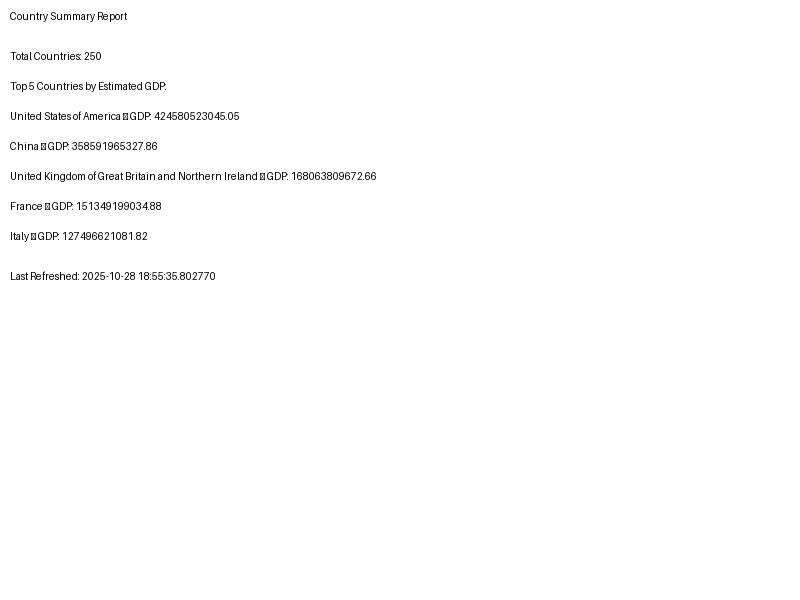
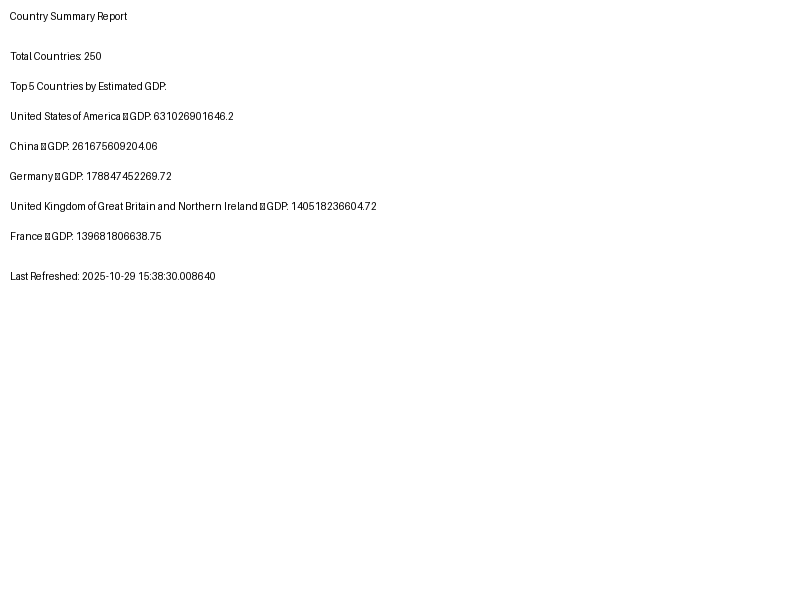
final fixes

diff --git a/views.py b/views.py
@@ -1,4 +1,4 @@
-from services import country_data, exchange_rate_data, calculate_estimated_gdp, generate_country_summary_image
+from services import country_data, exchange_rate_data, generate_country_summary_image
 from models import Countries, SessionDep
 from fastapi import HTTPException, status
 from main import app
@@ -6,6 +6,7 @@ from sqlmodel import select, func
 from datetime import datetime, timezone
 from fastapi.responses import FileResponse
 import os
+import random
 
 BASE_DIR = os.path.dirname(os.path.abspath(__file__))
 IMAGE_PATH = os.path.join(BASE_DIR, "cache", "summary.png")
@@ -14,10 +15,8 @@ IMAGE_PATH = os.path.join(BASE_DIR, "cache", "summary.png")
 @app.post("/countries/refresh")
 def fetch_country_data(session: SessionDep):
     try:
-
         countries = country_data("https://restcountries.com/v2/all?fields=name,capital,region,population,flag,currencies")
         exchange_rates = exchange_rate_data("https://open.er-api.com/v6/latest/USD")
-
     except Exception as e:
         raise HTTPException(
             status_code=status.HTTP_503_SERVICE_UNAVAILABLE,
@@ -34,49 +33,51 @@ def fetch_country_data(session: SessionDep):
         )
 
     try:
-
-        country_obj = []
+        new_countries = []
         updated_count = 0
 
         for country in countries:
             name = country.get("name")
-            population = country.get("population")
+            if not name:
+                continue
+                
+            population = country.get("population", 0)
             capital = country.get("capital")
             region = country.get("region")
             flag_url = country.get("flag")
-
-            # Extract currency data
             currencies = country.get("currencies") or []
-            currency_code = currencies[0].get("code") if currencies else None
-
             
-            missing_fields = {}
-            if not name:
-                missing_fields["name"] = "is required"
-            # if not population:
-            #     missing_fields["population"] = "is required"
-            # if not currency_code:
-            #     missing_fields["currency_code"] = "is required"
-
-            # if missing_fields:
-            #     raise HTTPException(
-            #         status_code=status.HTTP_400_BAD_REQUEST,
-            #         detail={"error": "Validation failed", "details": missing_fields}
-            #     )
-
-            if not currency_code:
+            
+            if not currencies:
+                
+                currency_code = None
                 exchange_rate = None
-                estimated_gdp = 0
+                estimated_gdp = 0.0 
             else:
-                exchange_rate = exchange_rates.get(currency_code)
-                estimated_gdp = (
-                    calculate_estimated_gdp({"population": population, "exchange_rate": exchange_rate})
-                    if exchange_rate else 0
-                )
+                currency_code = currencies[0].get("code") if currencies[0] else None
+                
+                if currency_code:
+                    exchange_rate = exchange_rates.get(currency_code)
+                    
+                    # Calculate GDP
+                    if exchange_rate and population:
+                        gdp_per_capita = random.uniform(1000, 2000)
+                        estimated_gdp = round((population * gdp_per_capita) / exchange_rate, 2)
+                    else:
+                    
+                        estimated_gdp = None
+                else:
+                
+                    exchange_rate = None
+                    estimated_gdp = 0.0
 
-            existing = session.exec(select(Countries).where(Countries.name.ilike(name))).first()
+            # Check if country exists
+            existing = session.exec(
+                select(Countries).where(Countries.name.ilike(name))
+            ).first()
 
             if existing:
+                # Update existing country
                 existing.capital = capital
                 existing.region = region
                 existing.population = population
@@ -85,8 +86,10 @@ def fetch_country_data(session: SessionDep):
                 existing.estimated_gdp = estimated_gdp
                 existing.flag_url = flag_url
                 existing.last_refreshed_at = datetime.now(timezone.utc)
+                session.add(existing)
                 updated_count += 1
             else:
+                # Create new country
                 new_country = Countries(
                     name=name,
                     capital=capital,
@@ -96,19 +99,23 @@ def fetch_country_data(session: SessionDep):
                     exchange_rate=exchange_rate,
                     estimated_gdp=estimated_gdp,
                     flag_url=flag_url,
+                    last_refreshed_at=datetime.now(timezone.utc)
                 )
-                country_obj.append(new_country)
+                new_countries.append(new_country)
 
-        if country_obj:
-            session.add_all(country_obj)
+        if new_countries:
+            session.add_all(new_countries)
 
         session.commit()
 
-        generate_country_summary_image(session)
+        # summary image
+        try:
+            generate_country_summary_image(session)
+        except Exception as img_error:
+            print(f"Image generation failed: {img_error}")
 
-        total_processed = len(country_obj) + updated_count
-
-        return {"message": f"Saved/updated {total_processed} countries successfully and summary image generated"}
+        total_processed = len(new_countries) + updated_count
+        return {"message": f"Saved/updated {total_processed} countries successfully"}
 
     except HTTPException as e:
         session.rollback()
@@ -122,14 +129,19 @@ def fetch_country_data(session: SessionDep):
 
 
 @app.get("/countries")
-def get_countries(session: SessionDep, skip: int = 0, limit: int = 10,
-                  name: str | None = None,
-                  region: str | None = None,
-                  currency: str | None = None,
-                  sort: str | None = None):
+def get_countries(
+    session: SessionDep, 
+    skip: int = 0, 
+    limit: int = 10,
+    name: str | None = None,
+    region: str | None = None,
+    currency: str | None = None,
+    sort: str | None = None
+):
     
     query = select(Countries)
 
+    # filters
     if name:
         query = query.where(Countries.name.ilike(f"%{name}%"))
     if region:
@@ -137,6 +149,7 @@ def get_countries(session: SessionDep, skip: int = 0, limit: int = 10,
     if currency:
         query = query.where(Countries.currency_code.ilike(f"%{currency}%"))
 
+    # sorting
     if sort:
         sort_mapping = {
             "gdp_asc": Countries.estimated_gdp.asc(),
@@ -148,40 +161,38 @@ def get_countries(session: SessionDep, skip: int = 0, limit: int = 10,
         }
         sort_order = sort_mapping.get(sort)
         if sort_order is None:
-            raise HTTPException(status_code=400, detail={"error": "Invalid sort parameter"})
+            raise HTTPException(
+                status_code=400, 
+                detail={"error": "Invalid sort parameter"}
+            )
         query = query.order_by(sort_order)
 
-    filtered_query = query
+    # Get paginated results
     countries = session.exec(query.offset(skip).limit(limit)).all()
-    
-    # Count with filters applied
-    total_count = len(session.exec(filtered_query).all())
 
-    return {
-        "data": countries,
-        "total_count": total_count
-    }
+    return countries
 
 
 @app.get("/countries/image")
 def get_country_summary_image():
-    if os.path.exists(IMAGE_PATH):
-        return FileResponse(IMAGE_PATH, media_type="image/png")
-    raise HTTPException(
-        status_code=404,
-        detail={"error": "Summary image not found"}
-    )
+    if not os.path.exists(IMAGE_PATH):
+        raise HTTPException(
+            status_code=404,
+            detail={"error": "Summary image not found"}
+        )
+    return FileResponse(IMAGE_PATH, media_type="image/png")
 
 
 @app.get("/countries/{name}")
 def get_country_by_name(name: str, session: SessionDep):
+    
     query = select(Countries).where(Countries.name.ilike(name))
     result = session.exec(query).first()
     
     if not result:
         raise HTTPException(
             status_code=404,
-            detail={"error": f"Country '{name}' not found"}
+            detail={"error": "Country not found"}
         )
     
     return result
@@ -195,7 +206,7 @@ def delete_country(name: str, session: SessionDep):
     if not country:
         raise HTTPException(
             status_code=404,
-            detail={"error": f"Country '{name}' not found"}
+            detail={"error": "Country not found"}
         )
     session.delete(country)
     session.commit()
@@ -204,7 +215,10 @@ def delete_country(name: str, session: SessionDep):
 
 @app.get("/status")
 def total_countries_and_last_refresh(session: SessionDep):
-    total_countries = session.exec(select(func.count()).select_from(Countries)).one()
+    total_countries = session.exec(
+        select(func.count()).select_from(Countries)
+    ).one()
+    
     last_refresh = session.exec(
         select(func.max(Countries.last_refreshed_at))
     ).one()

diff --git a/services.py b/services.py
@@ -78,9 +78,3 @@ def generate_country_summary_image(session: SessionDep):
 
     image.save(image_path)
     print(f"✅ Image saved at {image_path}")
-
-countries = country_data("https://restcountries.com/v2/all?fields=name,capital,region,population,flag,currencies")
-# print(countries)
-exchange_rates = exchange_rate_data("https://open.er-api.com/v6/latest/USD")
-matched_countries = match_countries_with_exchange_rates(countries, exchange_rates)
-# print(matched_countries)
